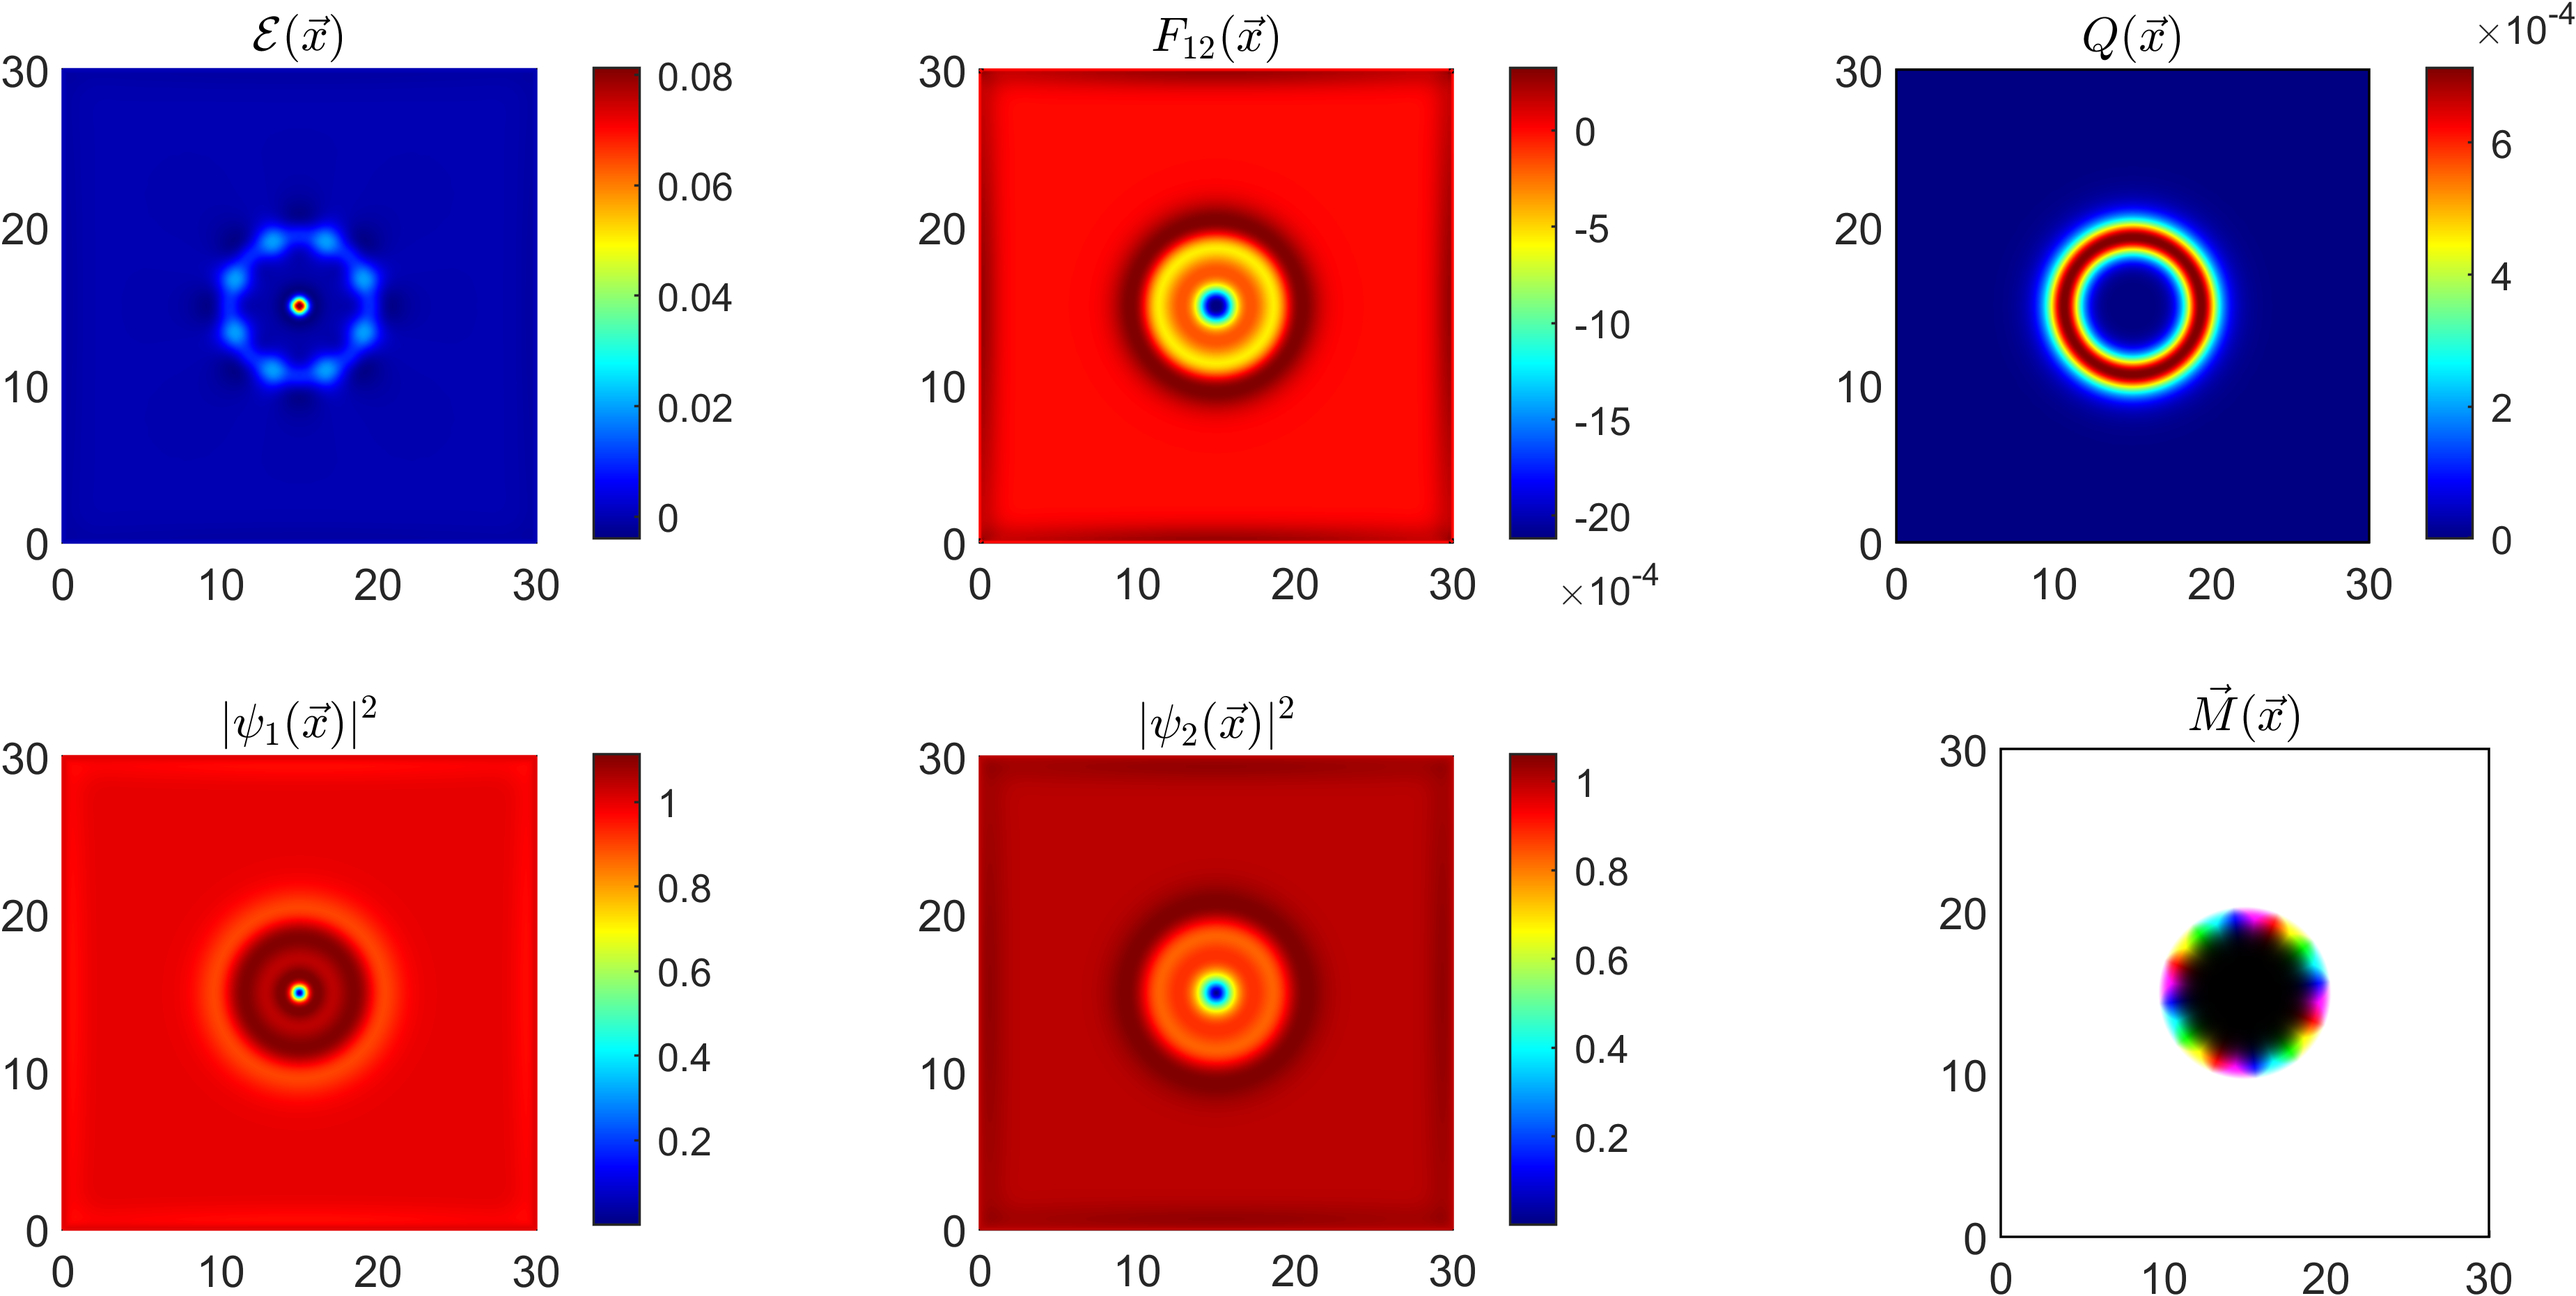
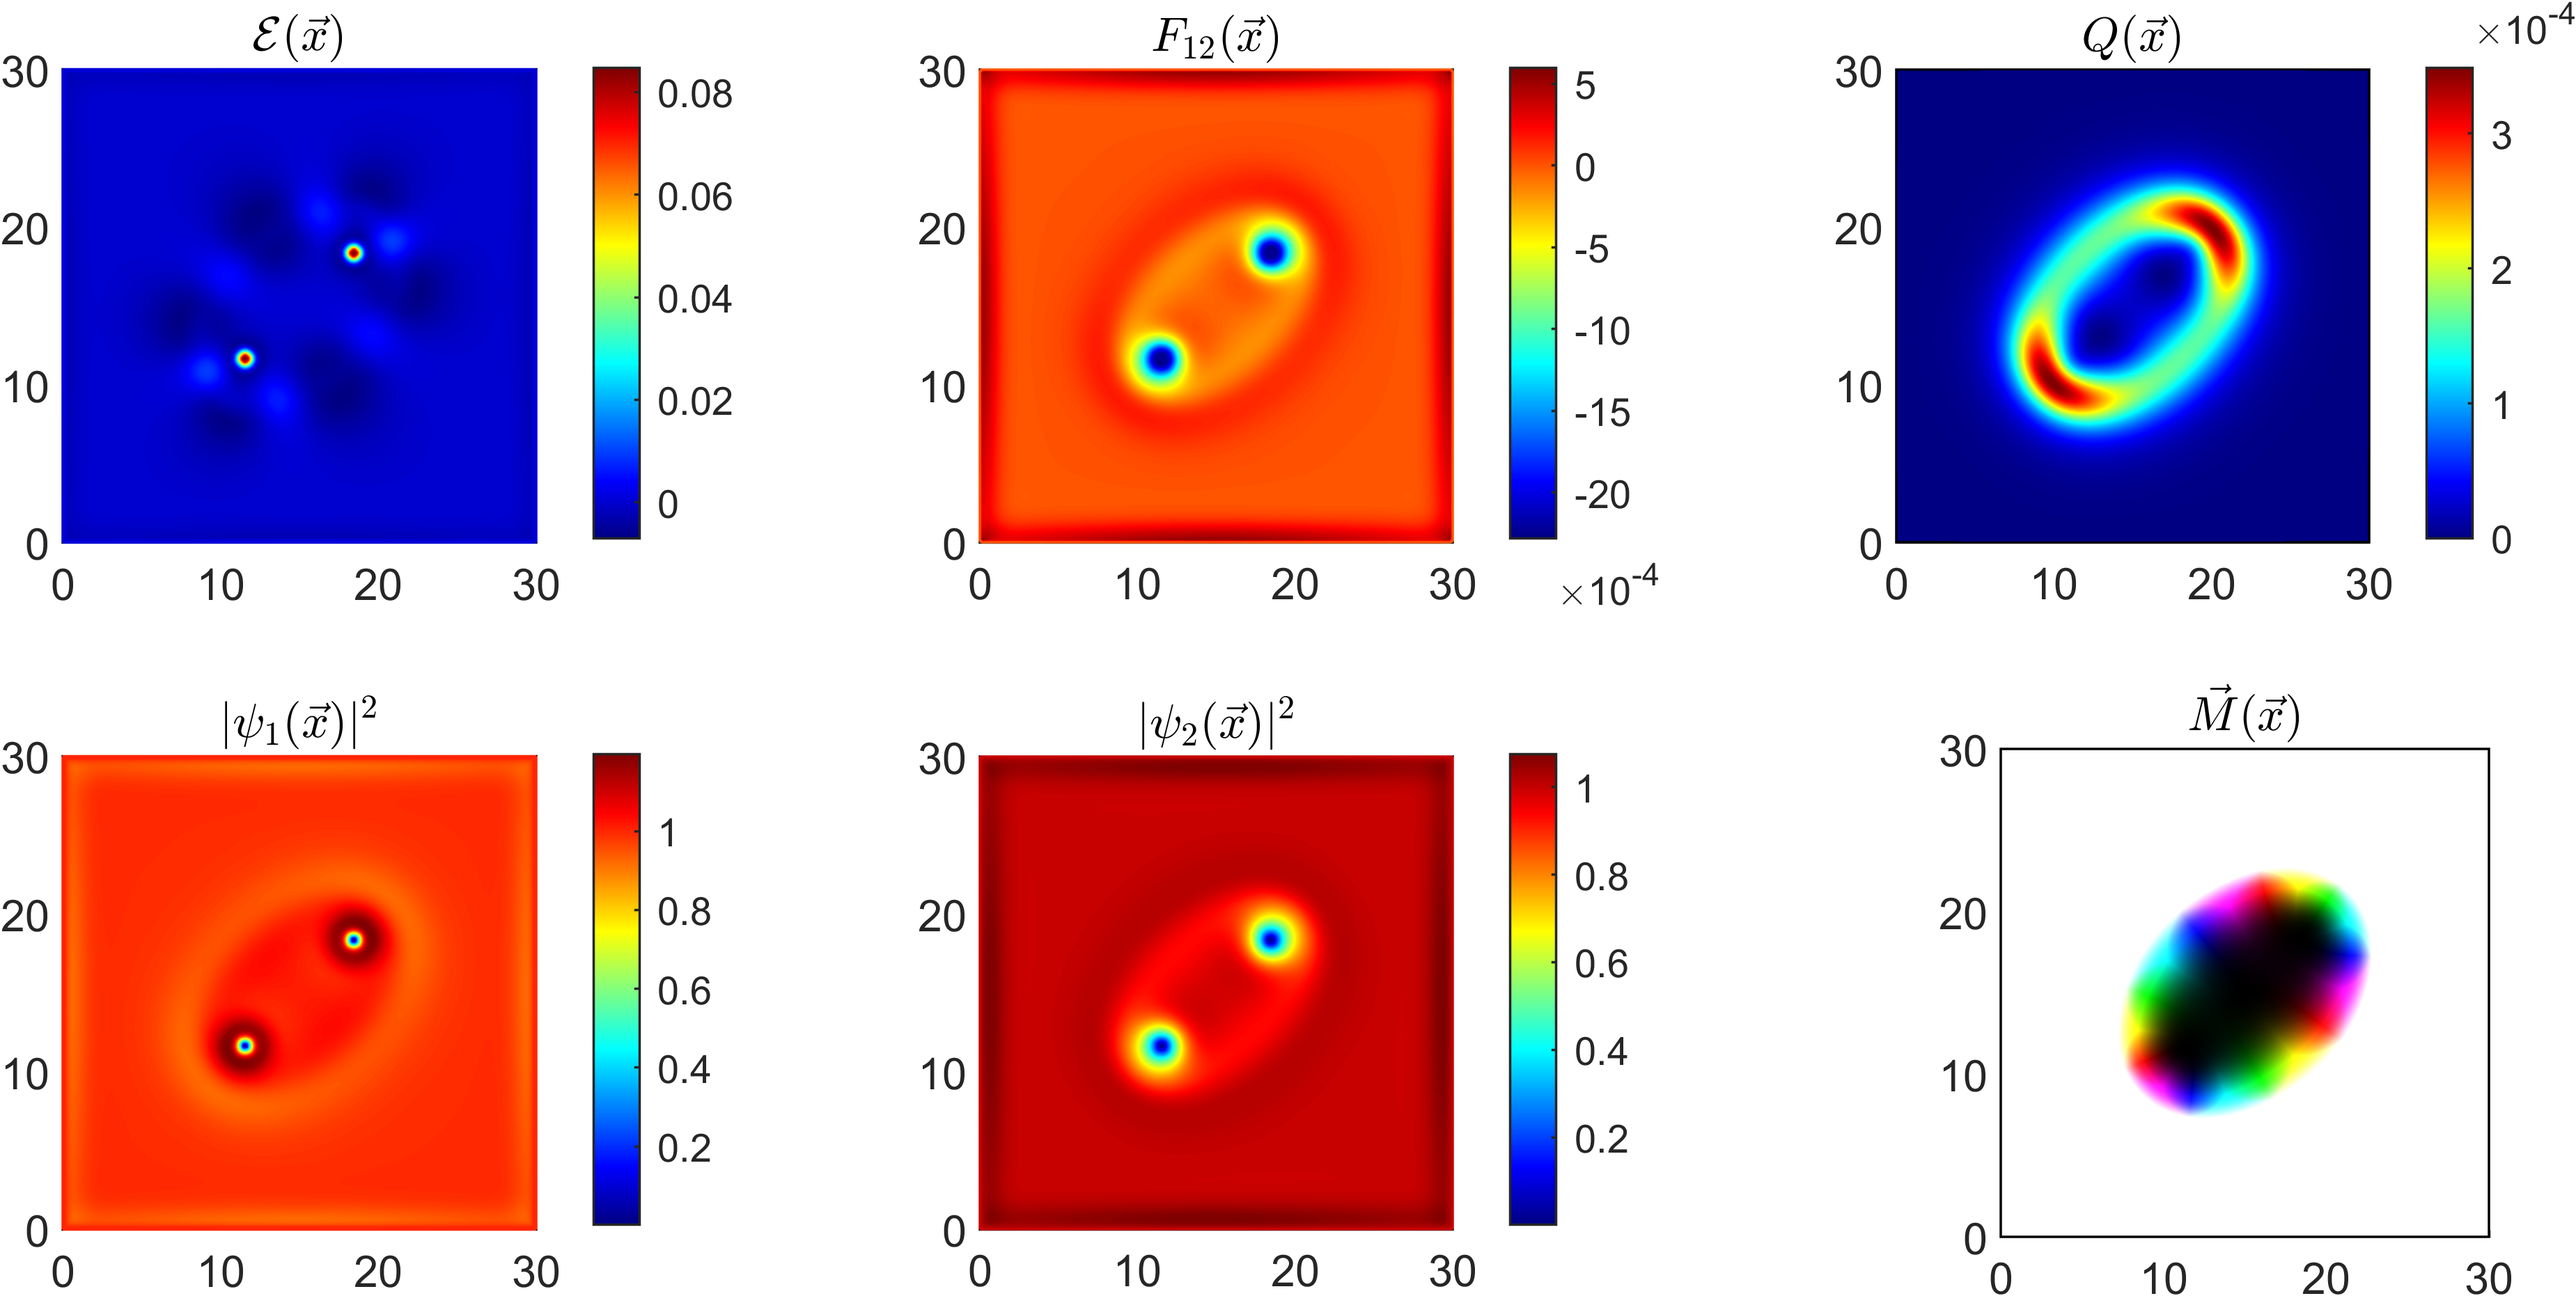
update

diff --git a/projects/index.html b/projects/index.html
@@ -260,8 +260,8 @@
               </figure>
 
                       <div class="card-body">
-                        <h2 class="card-title text">Ferromagnetic superconductors</h2>
-                        <p class="card-text">Coexistence of mixed magnetic skyrmion and vortex states in two-band ferromagnetic superconductors with triplet pairing</p>
+                        <h2 class="card-title text">Mixed magnetic skyrmion and vortex states</h2>
+                        <p class="card-text">Coexistence of a mixed \(Q=3\) magnetic skyrmion and a \(N=2\) vortex state in two-band ferromagnetic superconductors with triplet pairing</p>
                         <div class="row ml-1 mr-1 p-0">
                         </div>
                       </div>
